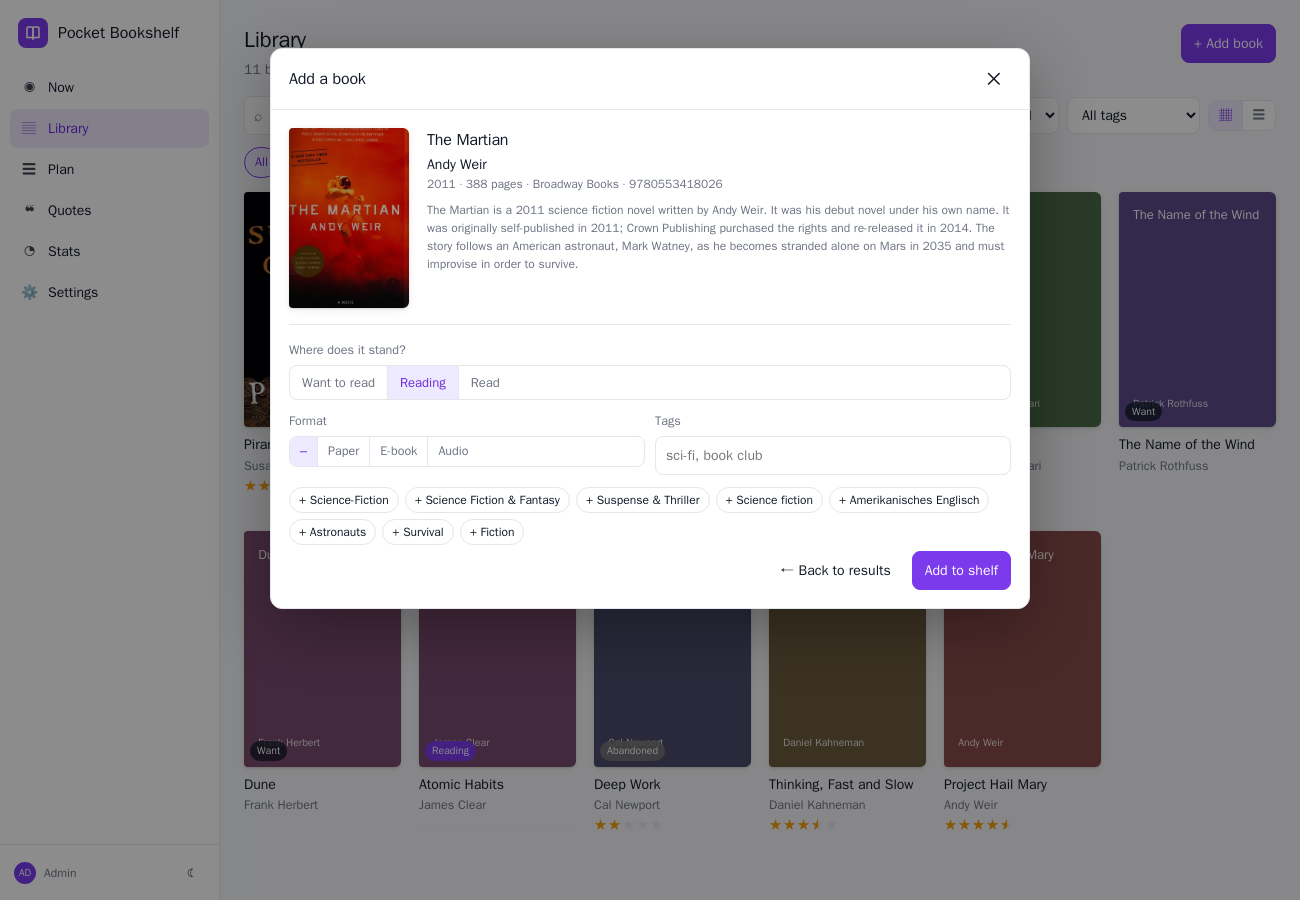
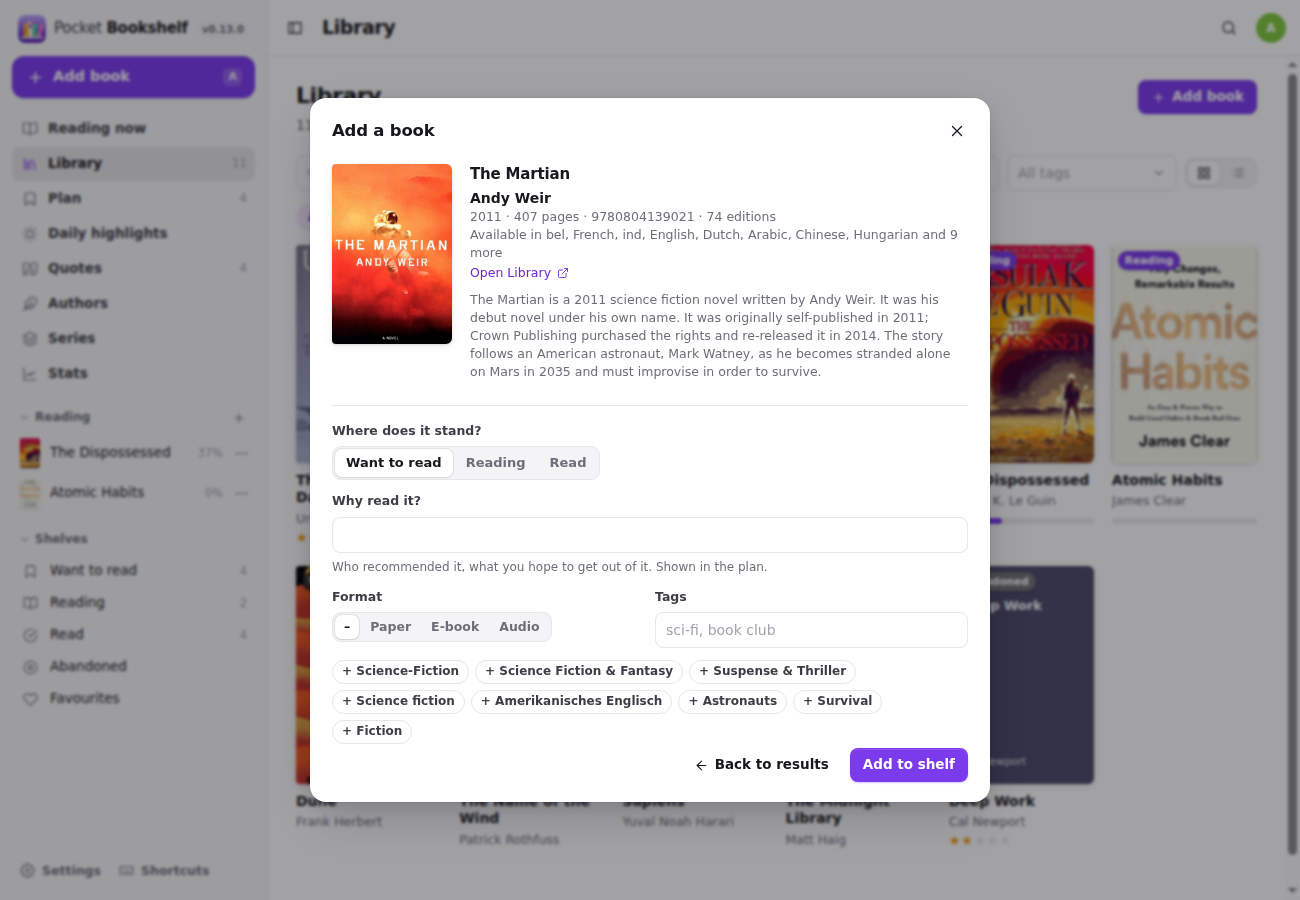
Docs: screenshots in the new design, settings sections renamed (Book search, People)

diff --git a/README.md b/README.md
@@ -62,7 +62,7 @@ Goodreads is a social network, and StoryGraph is too. This is just your notebook
 <p align="center">
   <img src="docs/screenshots/mobile-now.png" width="260" alt="Reading now on a phone">&nbsp;&nbsp;
   <img src="docs/screenshots/quotes-dark.png" width="520" alt="Quotes in dark mode"><br>
-  <sub>Installable PWA with a bottom tab bar, plus dark mode.</sub>
+  <sub>Installable PWA: a drawer and an add button on phones, light and dark themes that follow the system.</sub>
 </p>
 
 ## Features
@@ -116,7 +116,7 @@ Everything is an environment variable with a sensible default. The important one
 | `AUTH_MODE` | `local` | `local` (built-in login, multi-user), `proxy` (trust `Remote-User` from your SSO proxy; users auto-created), `none` (single implicit user with no login, for a trusted LAN only). |
 | `ADMIN_EMAIL` / `ADMIN_PASSWORD` | – | Create the first admin without the setup screen. |
 | `SECURE_COOKIES` | `false` | Set `true` behind HTTPS. |
-| `GOOGLE_BOOKS_API_KEY` | – | Enables Google Books for the owner (everyone can also set their own in Settings → Metadata). |
+| `GOOGLE_BOOKS_API_KEY` | – | Enables Google Books for the owner (everyone can also set their own in Settings → Book search). |
 | `DEMO_DATA` | `false` | Seed a sample shelf into an empty database. |
 
 The full list is in [docs/configuration.md](docs/configuration.md), and reverse-proxy snippets are in [docs/reverse-proxy.md](docs/reverse-proxy.md).
@@ -147,11 +147,11 @@ Everything else, including a Homepage `customapi` widget, is in [docs/api.md](do
 ## Characters
 
 The book page lists each novel's characters with a one- or two-sentence note on each — only what you learn
-in the first chapters, so nothing is spoiled — in every preferred language (Settings → Metadata). Non-fiction
+in the first chapters, so nothing is spoiled — in every preferred language (Settings → Book search). Non-fiction
 gets none.
 
 **With an OpenAI key** (Settings → AI — each person their own; `OPENAI_API_KEY` counts for the owner) the app writes the characters of that person's books itself, in the background:
-right after a book is added, whenever *↻* on a book page asks for a rewrite, and every 30 minutes for anything
+right after a book is added, whenever the refresh button on a book page asks for a rewrite, and every 30 minutes for anything
 still missing. Pick the model there (the list comes from your account; default `gpt-5-mini`) and whether it
 may search the web — more accurate for translations and lesser-known books. Answers come back as strict,
 schema-checked JSON. A bad key or an empty quota pauses writing until the settings change; a book that fails

diff --git a/docs/configuration.md b/docs/configuration.md
@@ -26,7 +26,7 @@ All settings are environment variables. Nothing is required.
 
 | Variable | Default | Description |
 |---|---|---|
-| `GOOGLE_BOOKS_API_KEY` | – | Enables Google Books as a second catalogue for the owner (first account). A key saved under Settings → Metadata takes precedence; other people save their own. |
+| `GOOGLE_BOOKS_API_KEY` | – | Enables Google Books as a second catalogue for the owner (first account). A key saved under Settings → Book search takes precedence; other people save their own. |
 | `OPENAI_API_KEY` | – | Lets the app write the characters of the owner's books itself. A key saved under Settings → AI takes precedence; other people save their own. |
 | `OPENAI_BASE_URL` | `https://api.openai.com/v1` | Another server speaking the OpenAI Responses API. |
 | `GOOGLE_BOOKS_COUNTRY` | `US` | Country sent to Google Books with every request (ISO code, e.g. `BA`). Google needs one and fails with *503 backendFailed* when it cannot place the server's IP address. |
@@ -38,7 +38,7 @@ See [metadata.md](metadata.md) for what each catalogue gives you and how covers 
 
 | Variable | Default | Description |
 |---|---|---|
-| `AUTH_MODE` | `local` | `local`: built-in email + password, first-run setup screen, users managed under Settings → Users. `proxy`: trust the user name from a header set by your SSO proxy; users are auto-created on first visit (first one becomes admin). `none`: no login at all, one implicit user — only for trusted networks. |
+| `AUTH_MODE` | `local` | `local`: built-in email + password, first-run setup screen, users managed under Settings → People. `proxy`: trust the user name from a header set by your SSO proxy; users are auto-created on first visit (first one becomes admin). `none`: no login at all, one implicit user — only for trusted networks. |
 | `AUTH_PROXY_HEADER` | `Remote-User` | Header carrying the user name in `proxy` mode. |
 | `AUTH_PROXY_EMAIL_HEADER` | `Remote-Email` | Header carrying the email in `proxy` mode. |
 | `ADMIN_EMAIL`, `ADMIN_PASSWORD`, `ADMIN_NAME` | – | In `local` mode, create this admin on first start instead of showing the setup screen. Password must be 8+ characters. |
@@ -58,7 +58,7 @@ In `local` mode a configured provider adds a "Sign in with …" button above the
 ## In-app settings
 
 - **Settings → General:** app title, yearly reading goal (books), which page opens first.
-- **Settings → Metadata:** default search source (All / Open Library / Google Books) and the Google Books API key.
+- **Settings → Book search:** default search source (All / Open Library / Google Books) and the Google Books API key.
 
 ## Forgot your password?
 

diff --git a/docs/metadata.md b/docs/metadata.md
@@ -15,7 +15,7 @@ All lookups happen **on the server**, so the browser never talks to Google or Op
 
 With **All** (the default) both are searched in parallel and the results interleaved; a book both know (same ISBN-13) is shown once, with missing fields borrowed from the other. If one catalogue fails, you get the other's results and a warning.
 
-**Preferred languages** (Settings → Metadata, up to three, in order): for each one Open Library is also asked which works have an edition in that language. Those works come first, shown as that edition (its title, cover and ISBN, with the original title underneath). Works with no edition in your languages follow in catalogue order. The same applies to authors' bibliographies, and Google Books results are re-ordered by language. Open Library's Serbian, Croatian and Bosnian coverage is thin, so a second language like English is a useful fallback.
+**Preferred languages** (Settings → Book search, up to three, in order): for each one Open Library is also asked which works have an edition in that language. Those works come first, shown as that edition (its title, cover and ISBN, with the original title underneath). Works with no edition in your languages follow in catalogue order. The same applies to authors' bibliographies, and Google Books results are re-ordered by language. Open Library's Serbian, Croatian and Bosnian coverage is thin, so a second language like English is a useful fallback.
 
 **ISBN searches** (`9780441478125`, `978-0-441-47812-5`, `ISBN 0441478123`) are detected and pinned to that edition: its page count, publisher and cover.
 
@@ -26,7 +26,7 @@ Google refuses anonymous requests (the shared quota is zero), so Google Books ne
 1. Open the [Google Cloud console](https://console.cloud.google.com/), create or pick a project.
 2. *APIs & Services → Library → Books API → Enable*.
 3. *APIs & Services → Credentials → Create credentials → API key*. Optionally restrict it to the Books API.
-4. Paste it under **Settings → Metadata** (or set `GOOGLE_BOOKS_API_KEY`) and press *Test Google Books*.
+4. Paste it under **Settings → Book search** (or set `GOOGLE_BOOKS_API_KEY`) and press *Test Google Books*.
 
 ## Covers
 
